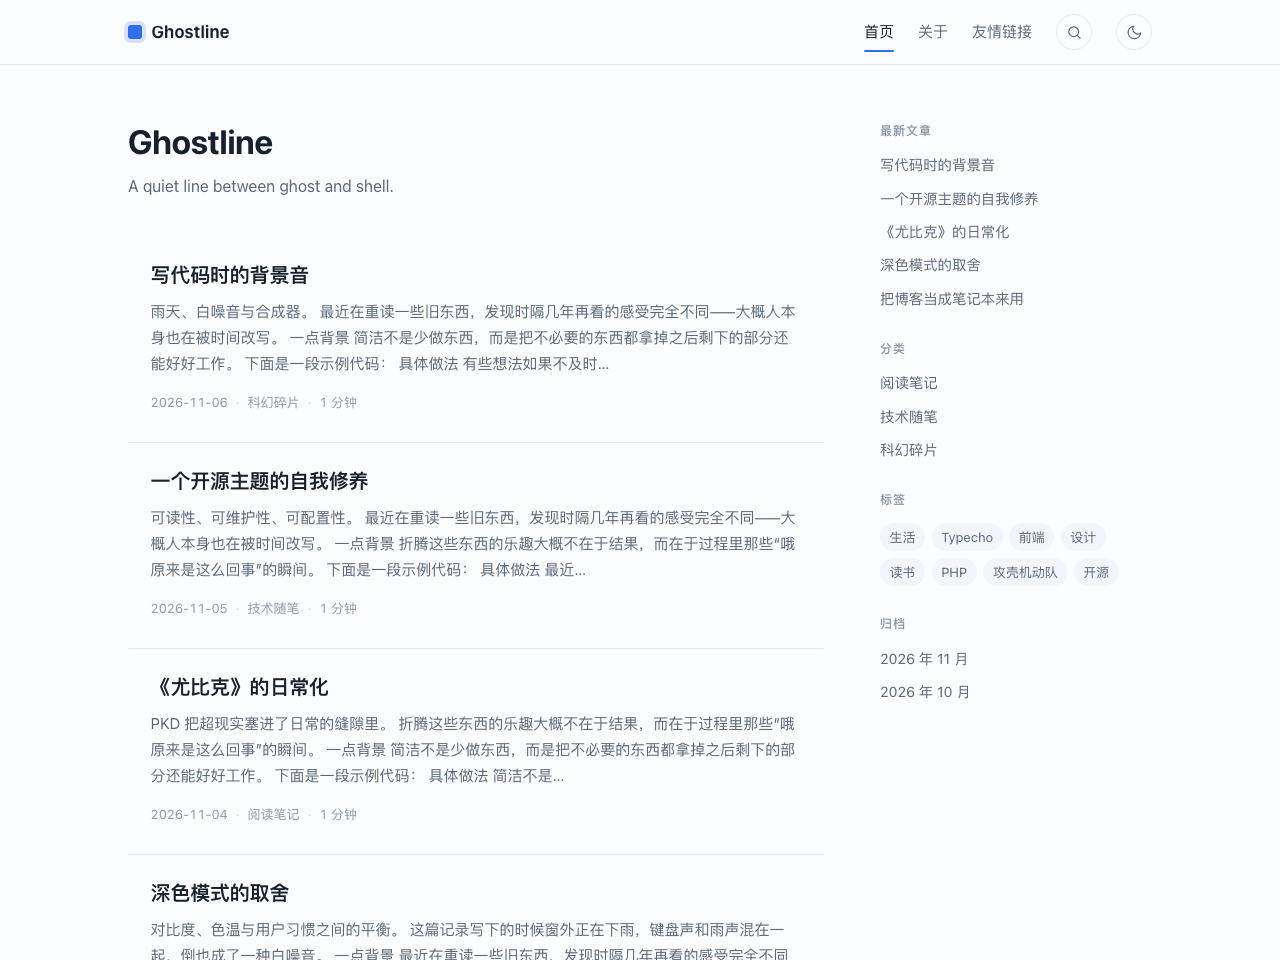
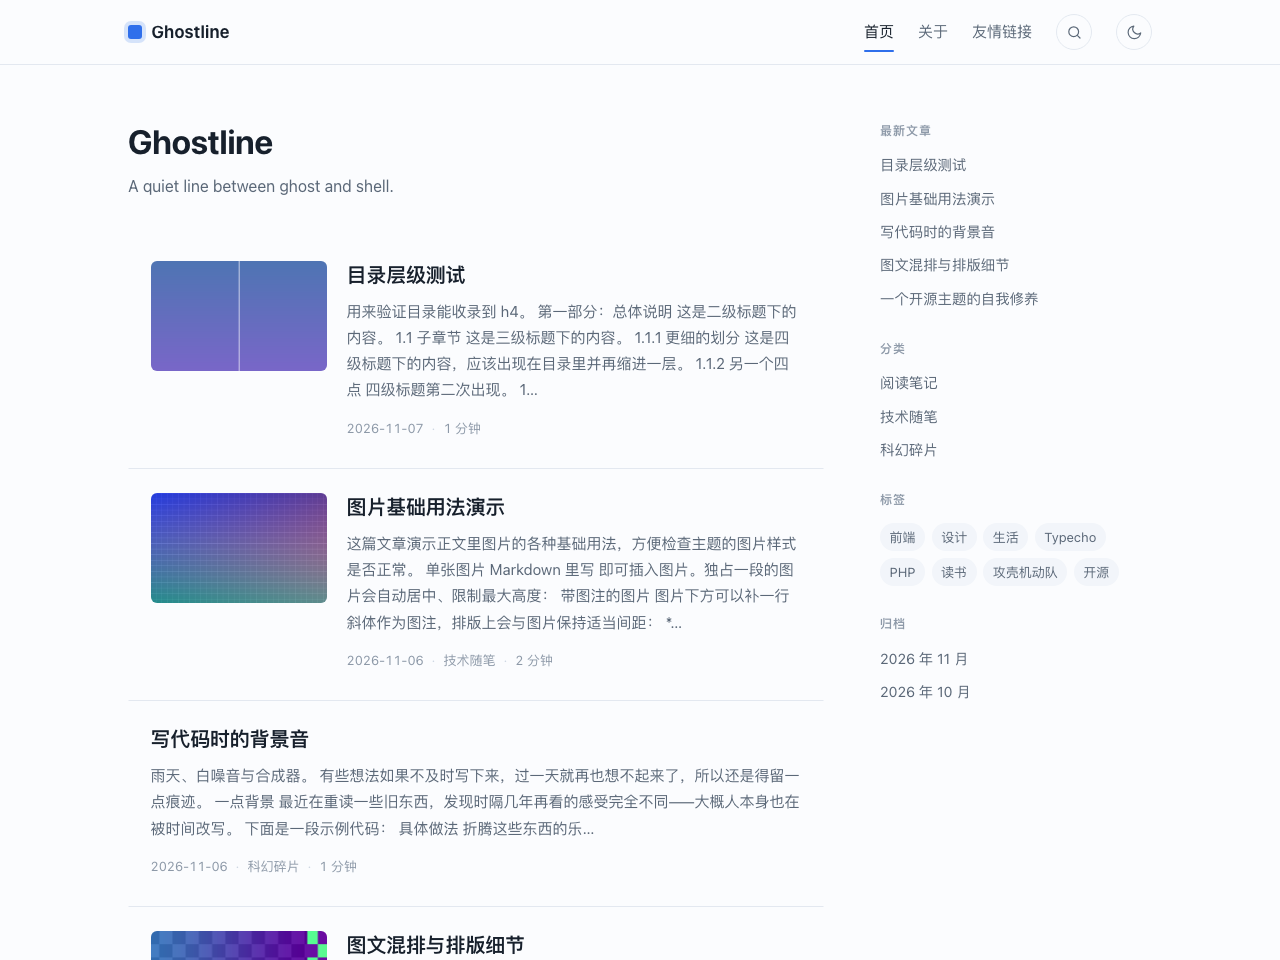
feat(cover): 支持文章封面图，完善发布准备
- 新增 themeFields()，在文章编辑页提供「封面图地址」字段
- 列表页按文章显示缩略图：桌面左侧缩略图 + 右侧文字，
  移动端自动变为顶部横图；无封面图的文章保持纯文字样式
- 新增 showCover 功能开关，默认开启
- 封面地址做协议校验，仅接受 http(s)、协议相对或站内绝对路径
- 版本号升至 0.2.0，补全主题头信息
- README 补充封面图用法、更新特性列表与目录结构
- 重新生成后台预览截图

diff --git a/usr/themes/ghostline/style.css b/usr/themes/ghostline/style.css
@@ -336,6 +336,41 @@ button {
         transform 0.2s var(--ease);
 }
 
+/* 带封面图的列表项：缩略图在左，文字在右 */
+.post-card.has-cover {
+    display: grid;
+    grid-template-columns: 11rem minmax(0, 1fr);
+    gap: 1.25rem;
+    align-items: start;
+}
+
+.post-card-cover {
+    display: block;
+    overflow: hidden;
+    border-radius: var(--radius-sm);
+    background: var(--bg-soft);
+    aspect-ratio: 16 / 10;
+}
+
+.post-card-cover img {
+    width: 100%;
+    height: 100%;
+    object-fit: cover;
+    transition: transform 0.35s var(--ease);
+}
+
+.post-card:hover .post-card-cover img {
+    transform: scale(1.04);
+}
+
+.post-card-body {
+    min-width: 0;
+}
+
+.post-card-cover:hover {
+    opacity: 1;
+}
+
 .post-card + .post-card {
     border-top: 1px solid var(--border);
     border-top-left-radius: 0;
@@ -1849,6 +1884,16 @@ body.lightbox-open {
 
     .post-card {
         padding: 1.25rem 0.9rem;
+    }
+
+    /* 小屏下封面图改为顶部横图 */
+    .post-card.has-cover {
+        grid-template-columns: 1fr;
+        gap: 0.85rem;
+    }
+
+    .post-card-cover {
+        aspect-ratio: 16 / 9;
     }
 
     .post-title {

diff --git a/usr/themes/ghostline/index.php b/usr/themes/ghostline/index.php
@@ -39,33 +39,43 @@ $isHome = $this->is('index');
         <?php if ($this->have()): ?>
             <div class="post-list">
                 <?php while ($this->next()): ?>
-                    <article class="post-card">
-                        <h2 class="post-card-title">
-                            <a href="<?php $this->permalink(); ?>"><?php $this->title(); ?></a>
-                        </h2>
+                    <?php $cover = ghostline_cover($this); ?>
+                    <article class="post-card<?php echo $cover ? ' has-cover' : ''; ?>">
+                        <?php if ($cover): ?>
+                            <a class="post-card-cover" href="<?php $this->permalink(); ?>" tabindex="-1" aria-hidden="true">
+                                <img src="<?php echo htmlspecialchars($cover, ENT_QUOTES, 'UTF-8'); ?>"
+                                     alt="" loading="lazy" decoding="async">
+                            </a>
+                        <?php endif; ?>
 
-                        <p class="post-card-excerpt"><?php echo ghostline_excerpt($this); ?></p>
+                        <div class="post-card-body">
+                            <h2 class="post-card-title">
+                                <a href="<?php $this->permalink(); ?>"><?php $this->title(); ?></a>
+                            </h2>
 
-                        <footer class="post-card-meta">
-                            <time datetime="<?php $this->date('c'); ?>"><?php $this->date('Y-m-d'); ?></time>
+                            <p class="post-card-excerpt"><?php echo ghostline_excerpt($this); ?></p>
 
-                            <?php if ($this->category): ?>
-                                <span class="meta-sep" aria-hidden="true">·</span>
-                                <span class="meta-category"><?php $this->category(','); ?></span>
-                            <?php endif; ?>
+                            <footer class="post-card-meta">
+                                <time datetime="<?php $this->date('c'); ?>"><?php $this->date('Y-m-d'); ?></time>
 
-                            <?php if (ghostline_enabled('showReading')): ?>
-                                <span class="meta-sep" aria-hidden="true">·</span>
-                                <span><?php echo ghostline_reading_time((string) $this->text); ?> <?php _e('分钟'); ?></span>
-                            <?php endif; ?>
+                                <?php if ($this->category): ?>
+                                    <span class="meta-sep" aria-hidden="true">·</span>
+                                    <span class="meta-category"><?php $this->category(','); ?></span>
+                                <?php endif; ?>
 
-                            <?php if ($this->commentsNum > 0): ?>
-                                <span class="meta-sep" aria-hidden="true">·</span>
-                                <a class="meta-comments" href="<?php $this->permalink(); ?>#comments">
-                                    <?php $this->commentsNum(_t('0 条评论'), _t('1 条评论'), _t('%d 条评论')); ?>
-                                </a>
-                            <?php endif; ?>
-                        </footer>
+                                <?php if (ghostline_enabled('showReading')): ?>
+                                    <span class="meta-sep" aria-hidden="true">·</span>
+                                    <span><?php echo ghostline_reading_time((string) $this->text); ?> <?php _e('分钟'); ?></span>
+                                <?php endif; ?>
+
+                                <?php if ($this->commentsNum > 0): ?>
+                                    <span class="meta-sep" aria-hidden="true">·</span>
+                                    <a class="meta-comments" href="<?php $this->permalink(); ?>#comments">
+                                        <?php $this->commentsNum(_t('0 条评论'), _t('1 条评论'), _t('%d 条评论')); ?>
+                                    </a>
+                                <?php endif; ?>
+                            </footer>
+                        </div>
                     </article>
                 <?php endwhile; ?>
             </div>

diff --git a/usr/themes/ghostline/functions.php b/usr/themes/ghostline/functions.php
@@ -6,8 +6,8 @@
  *
  * @package Ghostline
  * @author Ghostline
- * @version 0.1.0
- * @link https://github.com/
+ * @version 0.2.0
+ * @link https://github.com/typecho-themes/ghostline
  */
 
 if (!defined('__TYPECHO_ROOT_DIR__')) {
@@ -52,11 +52,70 @@ function themeConfig($form)
                 'showBackTop'  => _t('显示返回顶部按钮'),
                 'showPrevNext' => _t('显示上一篇 / 下一篇'),
                 'showComments' => _t('开放评论区'),
+                'showCover'    => _t('在列表页显示文章封面图'),
             ],
-            ['showSidebar', 'showToc', 'showReading', 'showBackTop', 'showPrevNext', 'showComments'],
+            ['showSidebar', 'showToc', 'showReading', 'showBackTop', 'showPrevNext', 'showComments', 'showCover'],
             _t('功能开关')
         )->multiMode()
     );
+}
+
+/**
+ * 文章编辑页的「自定义字段」
+ *
+ * 目前提供一个封面图地址，用于在列表页展示缩略图。
+ *
+ * @param \Typecho\Widget\Helper\Layout $layout
+ * @return void
+ */
+function themeFields($layout)
+{
+    $cover = new \Typecho\Widget\Helper\Form\Element\Text(
+        'cover',
+        null,
+        null,
+        _t('封面图地址'),
+        _t('填入图片 URL，会显示在列表页。留空则使用纯文字样式'),
+        _t('显示在文章列表中的缩略图')
+    );
+
+    $cover->setAttribute('class', 'text w-100');
+
+    $layout->addItem($cover);
+}
+
+/**
+ * 读取文章封面图地址
+ *
+ * @param \Widget\Archive $archive
+ * @return string 没有封面图时返回空字符串
+ */
+function ghostline_cover(\Widget\Archive $archive): string
+{
+    if (!ghostline_enabled('showCover')) {
+        return '';
+    }
+
+    $cover = '';
+
+    try {
+        if (isset($archive->fields->cover) && is_string($archive->fields->cover)) {
+            $cover = trim($archive->fields->cover);
+        }
+    } catch (\Throwable $e) {
+        return '';
+    }
+
+    if ($cover === '') {
+        return '';
+    }
+
+    // 只接受 http(s)、协议相对地址，或站内绝对路径
+    if (!preg_match('#^(https?:)?//#i', $cover) && strpos($cover, '/') !== 0) {
+        return '';
+    }
+
+    return $cover;
 }
 
 /**
@@ -102,6 +161,7 @@ function themeInit($options = null)
             'showBackTop',
             'showPrevNext',
             'showComments',
+            'showCover',
         ],
     ];
 

diff --git a/README.md b/README.md
@@ -11,8 +11,11 @@
 
 - **简洁的阅读体验**：全宽文章流 + 可选侧栏，正文排版专注可读性
 - **明暗双主题**：默认跟随系统，支持手动切换并记住偏好（无闪烁）
-- **文章目录**：文章页自动生成 h2 / h3 目录，可折叠
-- **代码块增强**：一键复制、语言标记、等宽字体优化
+- **文章目录**：自动生成 h2 / h3 / h4 嵌套目录，可逐级折叠，跟随阅读高亮当前章节
+- **搜索弹窗**：居中模态搜索，输入即出候选，支持 ↑↓ 选择与 `Cmd/Ctrl + K` 唤起
+- **代码块增强**：语法高亮、行号、一键复制
+- **图片优化**：行内图标对齐、长图限高、点击灯箱预览
+- **文章封面图**：可为每篇文章单独设置列表缩略图
 - **上一篇 / 下一篇** 导航、预计阅读时间、返回顶部
 - **响应式**：手机、平板、桌面自适应
 - **可配置**：强调色、页脚文字、各项功能开关都能在后台调整
@@ -83,11 +86,22 @@ $keywords = $this->request->filter('search')->get('keywords');
 | 强调色 | 品牌色，默认暗蓝 `#2f6feb` |
 | 页脚自定义文字 | 支持 HTML，留空不显示 |
 | 在列表页显示侧栏 | 首页 / 归档页是否显示右侧栏 |
-| 在文章页显示文章目录 | 自动生成 h2 / h3 目录 |
+| 在列表页显示文章封面图 | 在文章编辑页填写「封面图地址」后生效 |
+| 在文章页显示文章目录 | 自动生成 h2 / h3 / h4 目录 |
 | 显示预计阅读时间 | 按 400 字/分钟估算 |
 | 显示返回顶部按钮 | 滚动超过 600px 后出现 |
 | 显示上一篇 / 下一篇 | 文章底部导航 |
 | 开放评论区 | 关闭后文章页不渲染评论模块 |
+
+### 文章封面图
+
+编辑文章时，侧边栏底部会多出一个 **「封面图地址」** 字段：
+
+- 填入图片 URL（支持 `https://…` 或站内 `/usr/uploads/…`）
+- 保存后，列表页该文章的左侧会显示缩略图
+- 留空则保持纯文字样式，两种样式可以混用
+- 手机端封面图会自动变成顶部横图
+
 
 ## 开发
 
@@ -108,18 +122,21 @@ bash scripts/package.sh
 
 ```
 usr/themes/ghostline/
-├── screenshot.png     后台预览图
-├── functions.php      主题配置、辅助函数
-├── header.php         公共头部
-├── footer.php         公共页脚
-├── sidebar.php        侧栏
-├── index.php          首页 / 归档列表
-├── post.php           文章详情
-├── page.php           独立页面
-├── comments.php       评论区
-├── 404.php            404 页
-├── style.css          样式
-└── assets/js/main.js  前端交互
+├── screenshot.png      后台预览图
+├── functions.php       主题配置、自定义字段、辅助函数
+├── header.php          公共头部（含搜索弹窗）
+├── footer.php          公共页脚
+├── sidebar.php         侧栏
+├── index.php           首页 / 归档列表
+├── post.php            文章详情
+├── page.php            独立页面
+├── comments.php        评论区
+├── 404.php             404 页
+├── search-api.php      搜索候选接口（返回 JSON）
+├── style.css           样式
+└── assets/
+    ├── js/main.js      前端交互
+    └── js/vendor/highlight.min.js  代码高亮库
 ```
 
 ## 许可
